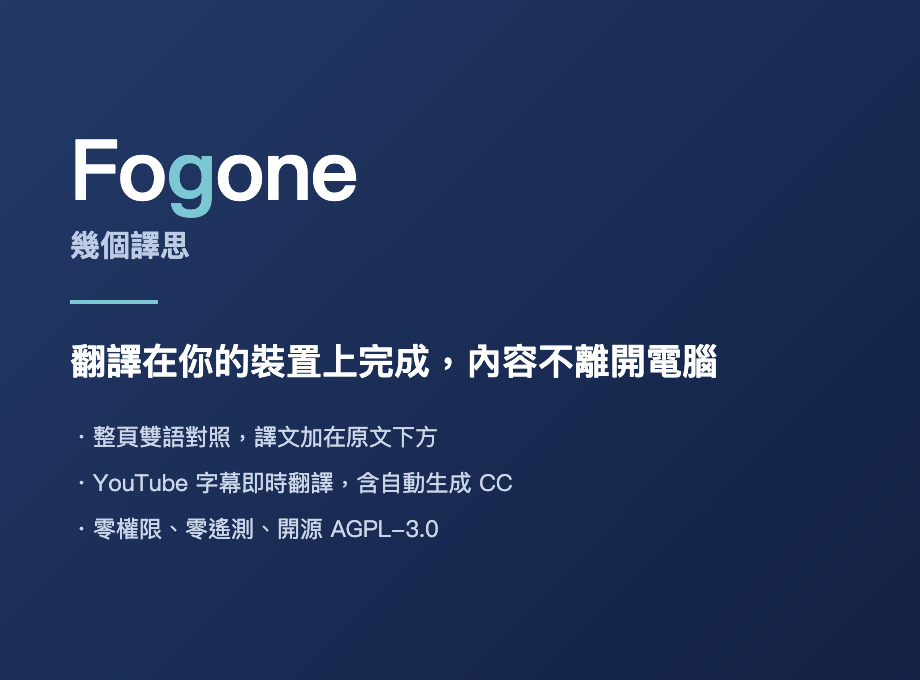
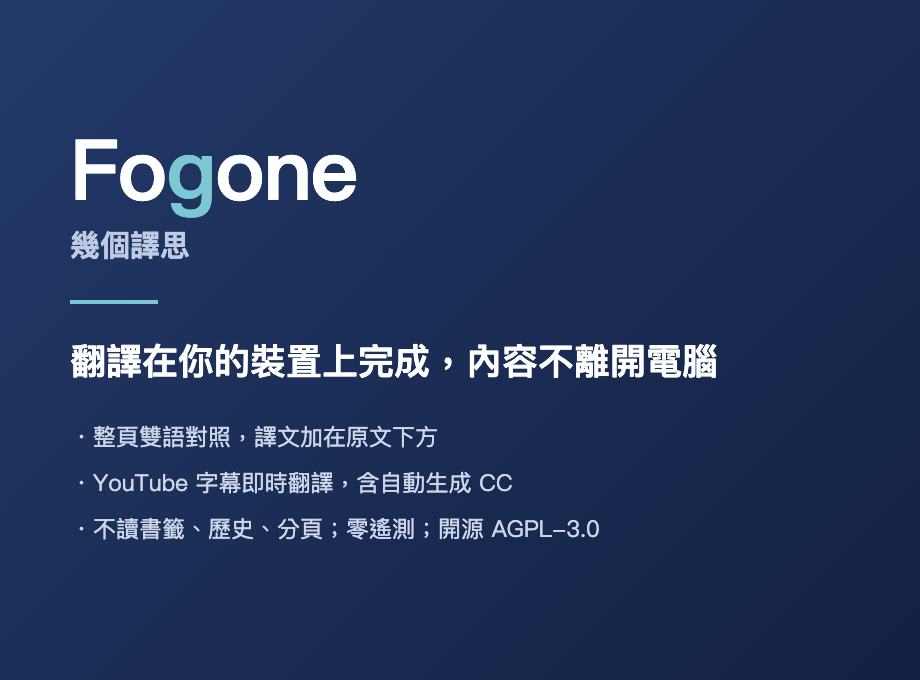
docs: state the real permission scope instead of "zero permissions"
content_scripts matches <all_urls> is all-sites read/write in Chrome's
permission model, and the install warning says so. chrome.permissions.getAll()
returns { origins: ["<all_urls>"], permissions: [] }. Calling that "zero
permissions" was wrong, so say what is actually true: nothing beyond reading
the page you are viewing.

Claude-Session: https://claude.ai/code/session_01FxuZYfHGkPqkgLgEEzN3vy

Changed region(s): [[0.3043, 0.7412, 0.6696, 0.8029], [0.0913, 0.7412, 0.2739, 0.8029]]

diff --git a/store/listing.md b/store/listing.md
@@ -23,7 +23,7 @@
 （慣用上限 132 字元）
 
 ```
-翻譯在你的裝置上完成，內容不離開電腦。整頁雙語對照＋YouTube 字幕即時翻譯。開源、零權限、零遙測。
+翻譯在你的裝置上完成，內容不離開電腦。整頁雙語對照＋YouTube 字幕即時翻譯。開源、零遙測、不多要一項權限。
 ```
 
 ## 詳細說明
@@ -47,7 +47,14 @@ BYOK 模式下資料到的是你指定的那家供應商（那是你選的、你
 擴充內顯示的統計數字（翻了幾段、呼叫幾次引擎、快取命中幾次）只存在你的分頁記憶體裡，
 關掉分頁就消失，只有你看得到——那是給你除錯用的，不是給我們的。
 
-安裝時你會看到：這個擴充要求的權限是空的。
+【權限】
+
+除了翻譯所必需的「讀取你正在瀏覽的網頁內容」之外，不要求任何其他權限
+——不讀書籤、歷史、分頁、下載，沒有背景權限。
+
+翻譯工具無法事先知道你想在哪個網站閱讀外文，所以讀取範圍涵蓋你造訪的網站，
+安裝時會顯示對應的警告。能縮小的是「除此之外一概不要」，這一點我們做到底：
+沒有任何背景權限，程式碼公開可查。
 
 【功能】
 
@@ -84,7 +91,7 @@ BYOK 模式下資料到的是你指定的那家供應商（那是你選的、你
   - `promo-small-440x280.png`（必填）
   - `screenshot-1-web.png`（MDN 英文技術文件雙語）
   - `screenshot-2-youtube.png`（YouTube 自動生成 CC 雙語，全螢幕）
-  - `screenshot-3-popup.png`（擴充視窗＋零權限訴求）
+  - `screenshot-3-popup.png`（擴充視窗＋權限範圍訴求）
   - `screenshot-4-japanese.png`（日文維基百科條目雙語）
   - `promo-large-920x680.png`（選填）
 

diff --git a/store/submission-notes.md b/store/submission-notes.md
@@ -24,13 +24,21 @@
 
 ## 權限說明
 
-**`permissions`：空陣列。** 本擴充不要求任何 Chrome 權限 API。
+**先把最容易被誤讀的一點寫在前面**：`permissions` 是空陣列，但這**不等於**本擴充沒有
+主機存取權。`content_scripts` 的 `matches` 是 `<all_urls>`，在 Chrome 的權限模型裡
+**等同於取得所有網站的讀寫權**，安裝時也會顯示對應的警告；
+`chrome.permissions.getAll()` 實測回傳 `{ origins: ["<all_urls>"], permissions: [] }`。
+對外文案一律照這個事實描述，不得寫成「零權限」。
 
 | 項目 | 內容 | 為什麼需要 |
 |---|---|---|
-| `permissions` | `[]` | 不需要。翻譯用的是網頁平台本身的 `Translator` API，不是 Chrome 擴充權限。 |
-| `host_permissions` | 未宣告 | 同上。 |
-| content script `matches` | `<all_urls>` | 使用者可能在任何網站上想要雙語對照，無法事先列舉網域。 |
+| `permissions` | `[]` | 不要任何 `chrome.*` API 權限。翻譯用的是網頁平台本身的 `Translator` API。 |
+| `host_permissions` | 未宣告 | 不另外宣告，但**實際主機存取權來自下一列**——不是「沒有主機權限」。 |
+| content script `matches` | `<all_urls>` | 使用者可能在任何網站上想要雙語對照，無法事先列舉網域。**等效於全站讀寫。** |
+
+因此本擴充要求的權限範圍，用一句話講是：
+「除了翻譯所必需的『讀取你正在瀏覽的網頁內容』之外，不要求任何其他權限
+——不讀書籤、歷史、分頁、下載，沒有背景權限。」
 
 content script 的用途，一句話：
 
